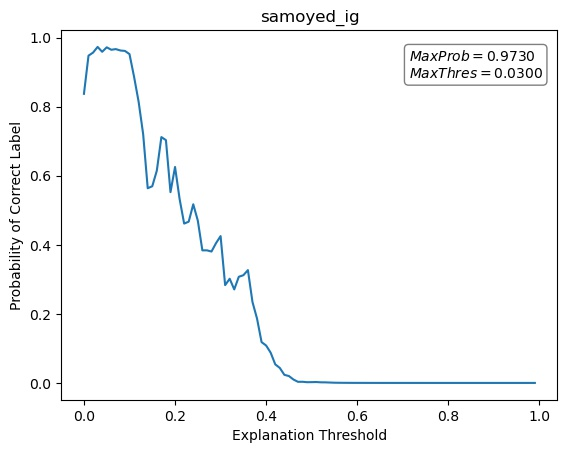
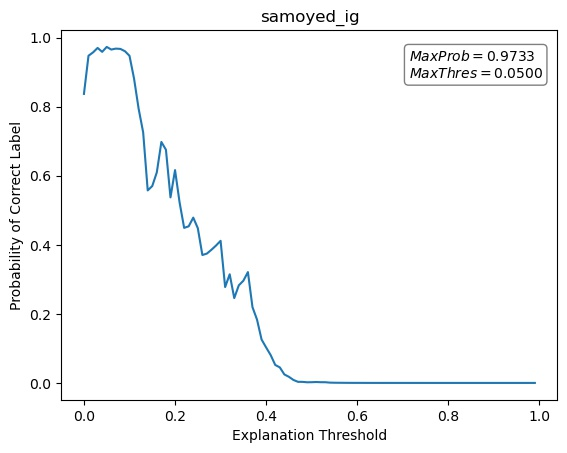
changed explanation norm type for prob vs. thres plots, experimented on a few more images

diff --git a/runner.py b/runner.py
@@ -130,9 +130,9 @@ def evaluate_lime(lime_explanation, input_image, model, categories, image_name, 
 
 if __name__ == '__main__':
     # setting vars
-    image_path = "./data/fireboat.jpeg"
-    image_name = "fireboat"
-    label_name = "fireboat"
+    image_path = "./data/bird.jpeg"
+    image_name = "bird"
+    label_name = "junco"
     explanation_norm_type = "scale"
     zero_out_threshold = 0.01
     path = './outputs/results_' + image_name + "_" + \
@@ -167,11 +167,11 @@ if __name__ == '__main__':
 
     max_threshold, max_probability = evaluate_pixel_based_methods_max_probability(explanation=explanation_ig,
                                                                                   input_image=input_image,
-                                                                                  image_name=image_name + "_ig" + "_" + explanation_norm_type,
+                                                                                  image_name=image_name + "_ig",
                                                                                   model=MODEL,
                                                                                   categories=CATEGORIES,
                                                                                   correct_label=label_name,
-                                                                                  explanation_norm_type=explanation_norm_type)
+                                                                                  explanation_norm_type='std')
 
     print(f'Maximum Probability of {label_name}: {max_probability}')
     print(f'Maximum Threshold: {max_threshold}')
@@ -196,7 +196,7 @@ if __name__ == '__main__':
                                                                                   model=MODEL,
                                                                                   categories=CATEGORIES,
                                                                                   correct_label=label_name,
-                                                                                  explanation_norm_type=explanation_norm_type)
+                                                                                  explanation_norm_type='std')
 
     print(f'Maximum Probability of {label_name}: {max_probability}')
     print(f'Maximum Threshold: {max_threshold}')
